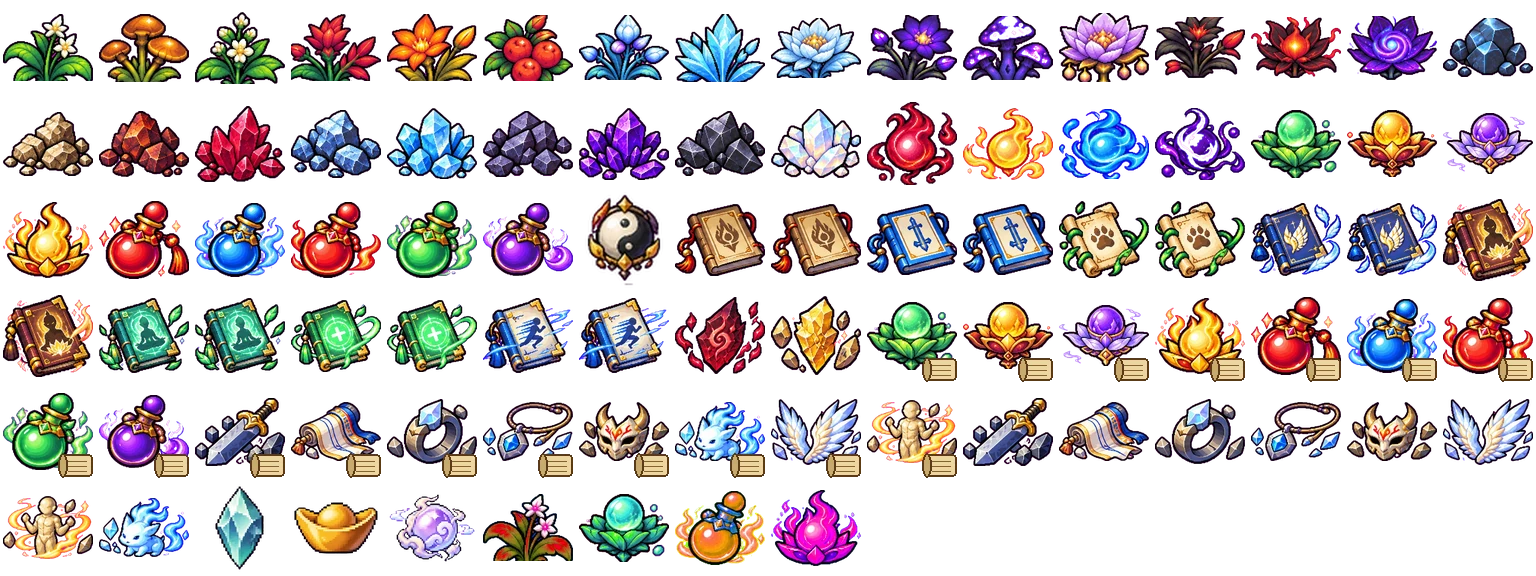
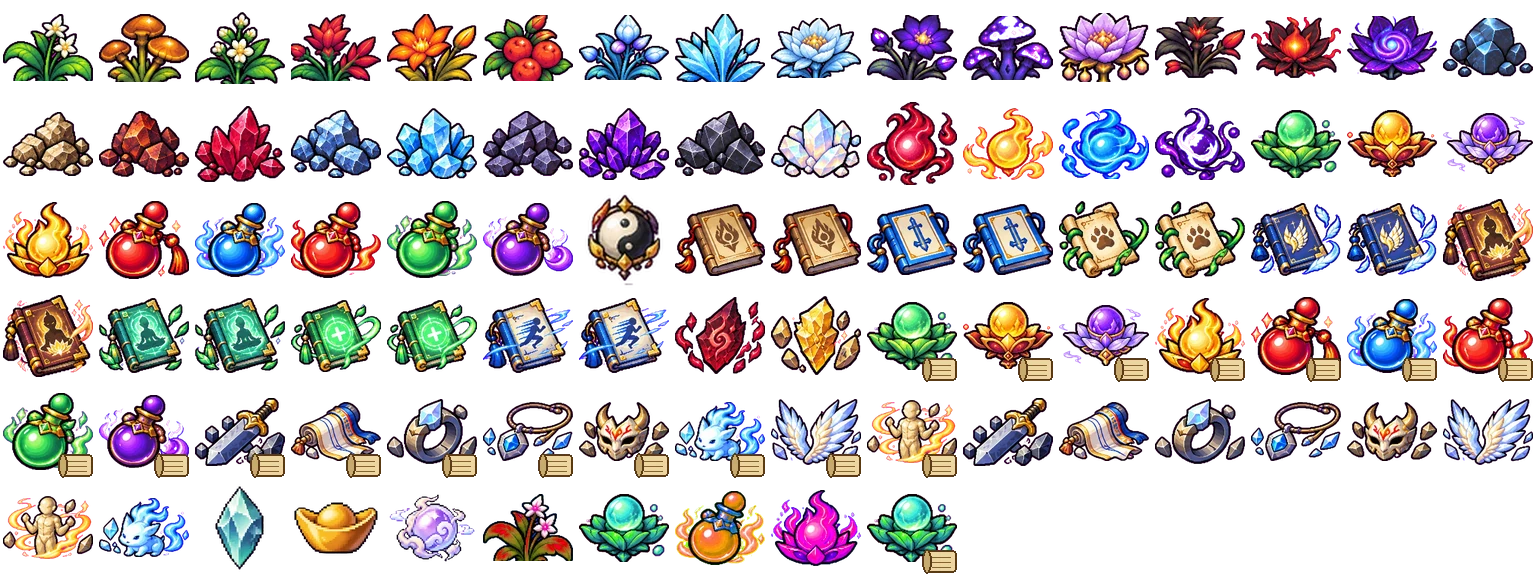
feat: Trường Sinh Đan — đan phương bán ở Vạn Bảo Lâu, luyện từ 2 Thanh Tâm Thảo (#70)
- Đổi tên Tăng Thọ Đan → Trường Sinh Đan (giữ mã item.dan.tang-tho.001)
- Công thức: 2 Thanh Tâm Thảo hoặc 1 Thọ Nguyên Thảo, cần Đan phương Trường Sinh Đan (20 LT)
- Phàm phẩm bán sẵn viên đan 500 Vàng; icon đan phương

Claude-Session: https://claude.ai/code/session_01NZd8YsZEguGMDtshCzNLjh

Changed region(s): [[0.5625, 0.8438, 0.625, 1.0]]

diff --git a/src/game/lifespan.js b/src/game/lifespan.js
@@ -1,6 +1,6 @@
 // Thọ nguyên (chủ dự án 23/10/2026) — THỬ NGHIỆM phía máy khách, số liệu: data/lifespan.json.
 // 1 ngày thật theo giờ Việt Nam (qua 0h) = 1 năm tuổi, kể cả khi không vào game. Giờ lấy từ máy chủ (serverNow).
-// Thọ nguyên tối đa = base_max + tổng gain các tầng đã đạt + số năm Tăng Thọ Đan đã cộng.
+// Thọ nguyên tối đa = base_max + tổng gain các tầng đã đạt + số năm Trường Sinh Đan đã cộng.
 // Tuổi ≥ thọ nguyên tối đa → tọa hóa (chết hẳn): main.js hiện bảng chuyển thế và xoá tiến trình (src/ui/toahoa.js).
 // Mốc 4: máy chủ tự tính tuổi từ ngày sinh, không tin máy khách.
 
@@ -17,9 +17,9 @@ export function createLifespan({ def, progress, stages, serverNow = Date.now }) 
   const dead = () => left() <= 0;
   const label = (stageName) => `${stageName} (Thọ nguyên ${age()}/${max()} năm)`;
 
-  // Tăng Thọ Đan: mỗi ngày (giờ VN) một viên. Trả về { ok, msg }; ok = được ăn (nơi gọi trừ đan).
+  // Trường Sinh Đan: mỗi ngày (giờ VN) một viên. Trả về { ok, msg }; ok = được ăn (nơi gọi trừ đan).
   function canEat() {
-    if (st().pillDay === today()) return { ok: false, msg: 'Hôm nay đã dùng Tăng Thọ Đan — mai hãy dùng tiếp (qua 0h giờ Việt Nam)' };
+    if (st().pillDay === today()) return { ok: false, msg: 'Hôm nay đã dùng Trường Sinh Đan — mai hãy dùng tiếp (qua 0h giờ Việt Nam)' };
     return { ok: true };
   }
   function eat() {
@@ -37,7 +37,7 @@ export function createLifespan({ def, progress, stages, serverNow = Date.now }) 
     const w = def.warn_left.find((x) => l <= x);
     if (w === undefined) return null;
     warned = d;
-    return `Thọ nguyên chỉ còn ${l} năm — đột phá hoặc dùng Tăng Thọ Đan (hái Thọ Nguyên Thảo ở Vùng Xanh)`;
+    return `Thọ nguyên chỉ còn ${l} năm — đột phá hoặc dùng Trường Sinh Đan (hái Thọ Nguyên Thảo ở Vùng Xanh)`;
   }
   // Gọi mỗi khung hình; kiểm tra mỗi check_every_s giây. Chỉ xét tọa hóa khi đã có giờ máy chủ (synced).
   let t = 0, over = false;

diff --git a/src/game/views.js b/src/game/views.js
@@ -29,7 +29,7 @@ export function createViews(o) {
   const tierName = (id) => awaken.tiers.find((t) => t.id === id)?.name || id;
   // Thọ nguyên trong bảng Cảnh giới
   const lifeLine = () => { const L = o.life, ate = st().life?.pillDay === L.today();
-    return `<p>Thọ nguyên: <b>${L.age()}/${L.max()} năm</b> (còn ${L.left()} năm · mỗi ngày +1 tuổi theo giờ Việt Nam). Tăng Thọ Đan hôm nay: ${ate ? 'đã dùng' : '<b>chưa dùng</b>'}.</p>`; };
+    return `<p>Thọ nguyên: <b>${L.age()}/${L.max()} năm</b> (còn ${L.left()} năm · mỗi ngày +1 tuổi theo giờ Việt Nam). Trường Sinh Đan hôm nay: ${ate ? 'đã dùng' : '<b>chưa dùng</b>'}.</p>`; };
   const msg = (r) => { if (!r) return; toast(r.msg, 1800); if (r.event) quests.emit(...r.event); o.recompute(); };
 
   // ---------- Nhiệm vụ ----------

diff --git a/tools/icons_v2.py b/tools/icons_v2.py
@@ -150,6 +150,7 @@ def main():
         new[k] = fit(im)
     # Thọ nguyên / tiên đan: chưa có ảnh riêng → đổi màu icon có sẵn
     for k, (src, hue, sat) in DERIVED.items(): new[k] = recolor(new[src], hue, sat)
+    new['item.danphuong.tang-tho.001'] = with_scroll(new['item.dan.tang-tho.001'])  # Đan phương Trường Sinh Đan
     tiles.update(new)
     cols = 16
     keys = list(tiles)

diff --git a/docs/07-NOI-DUNG-LAB.md b/docs/07-NOI-DUNG-LAB.md
@@ -55,7 +55,7 @@ File: `data/lifespan.json`, code `src/game/lifespan.js`. Bản chơi thử (loca
 
 - 1 ngày thật theo giờ Việt Nam (qua 0h) = 1 năm tuổi, kể cả khi không vào game. Giờ lấy từ máy chủ (`server_time`).
 - Bắt đầu 16 tuổi, thọ nguyên tối đa 60. Đột phá cộng: Luyện Khí mỗi tầng +1; Trúc Cơ +10/+5/+5; Kết Đan +20/+10/+10; Nguyên Anh +40/+20/+20; Hóa Thần +80/+40/+40.
-- Tăng Thọ Đan: +2 thọ nguyên tối đa, mỗi ngày 1 viên. Luyện từ 1 Thọ Nguyên Thảo (mọc khắp Vùng Xanh ngoài thành), không cần đan phương.
+- Trường Sinh Đan: +2 thọ nguyên tối đa, mỗi ngày 1 viên. Luyện từ 1 Thọ Nguyên Thảo (mọc khắp Vùng Xanh ngoài thành), không cần đan phương.
 - Hiện sau cảnh giới: trên đầu nhân vật và khung nhân vật, ví dụ `Kết Đan Sơ kỳ (Thọ nguyên 43/109 năm)`.
 - Tuổi chạm thọ nguyên tối đa → **tọa hóa: chết hẳn** (chủ dự án chọn). Tiến trình + Kho bị xoá, chuyển thế từ Luyện Khí tầng 1. Chỉ xét khi đã lấy được giờ máy chủ.
 
